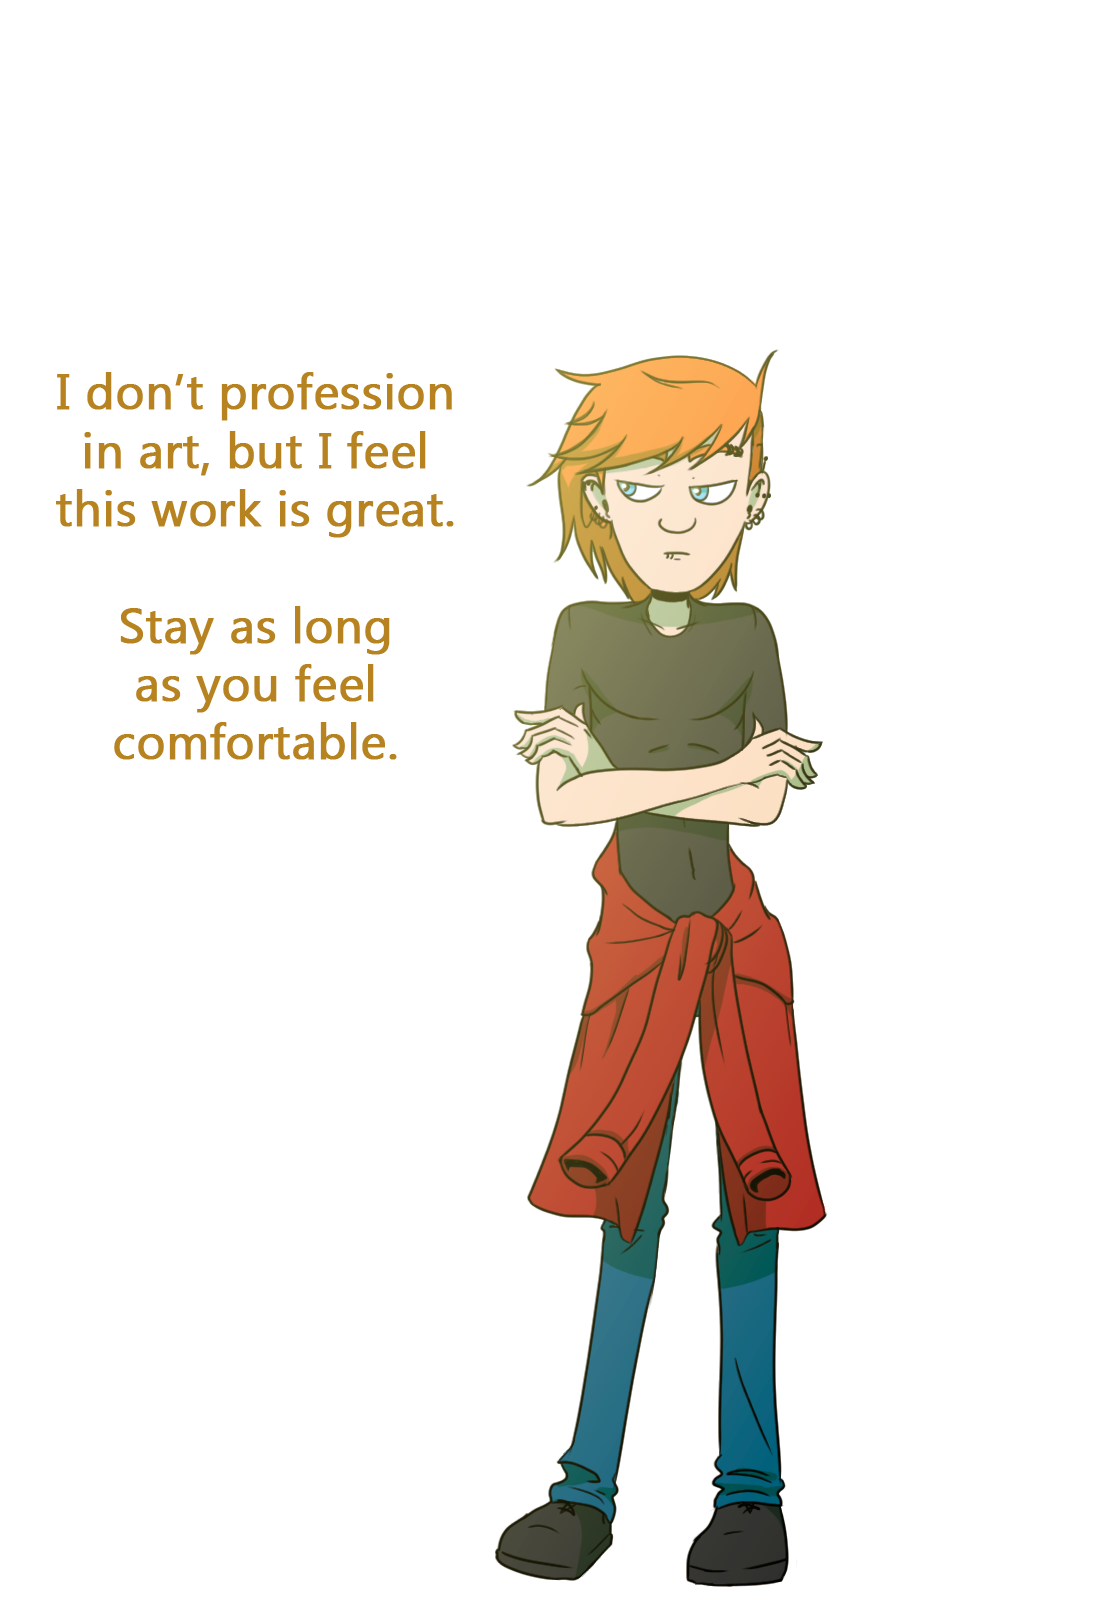
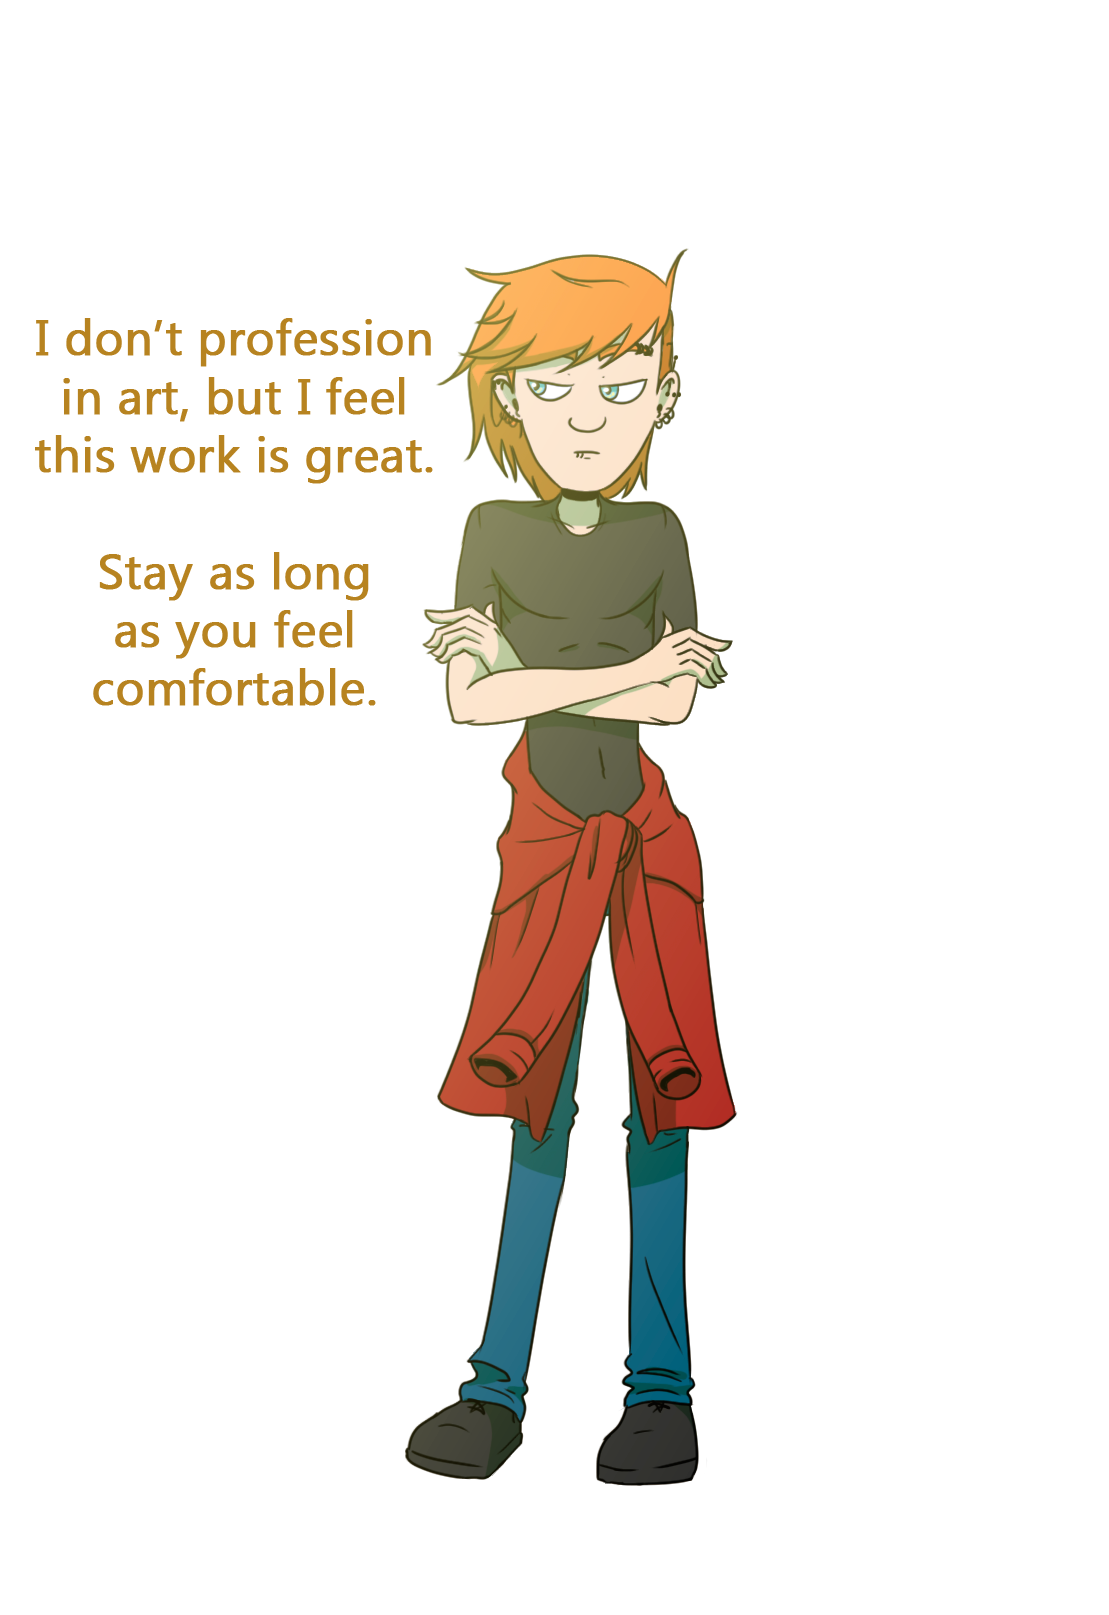
Added Mina as Greeter
Adjusted other Greeters

Changed region(s): [[0.0307, 0.1548, 0.7665, 0.9907]]

diff --git a/index.html b/index.html
@@ -130,7 +130,8 @@
   var allGreeters = [
 	'asset/Greeters/Mango.png',
 	'asset/Greeters/Ivan.png',
-	'asset/Greeters/Bailey.png'
+	'asset/Greeters/Bailey.png',
+	'asset/Greeters/Mina.png'
 ]
 
 var x = Math.floor(Math.random() * allGreeters.length);
